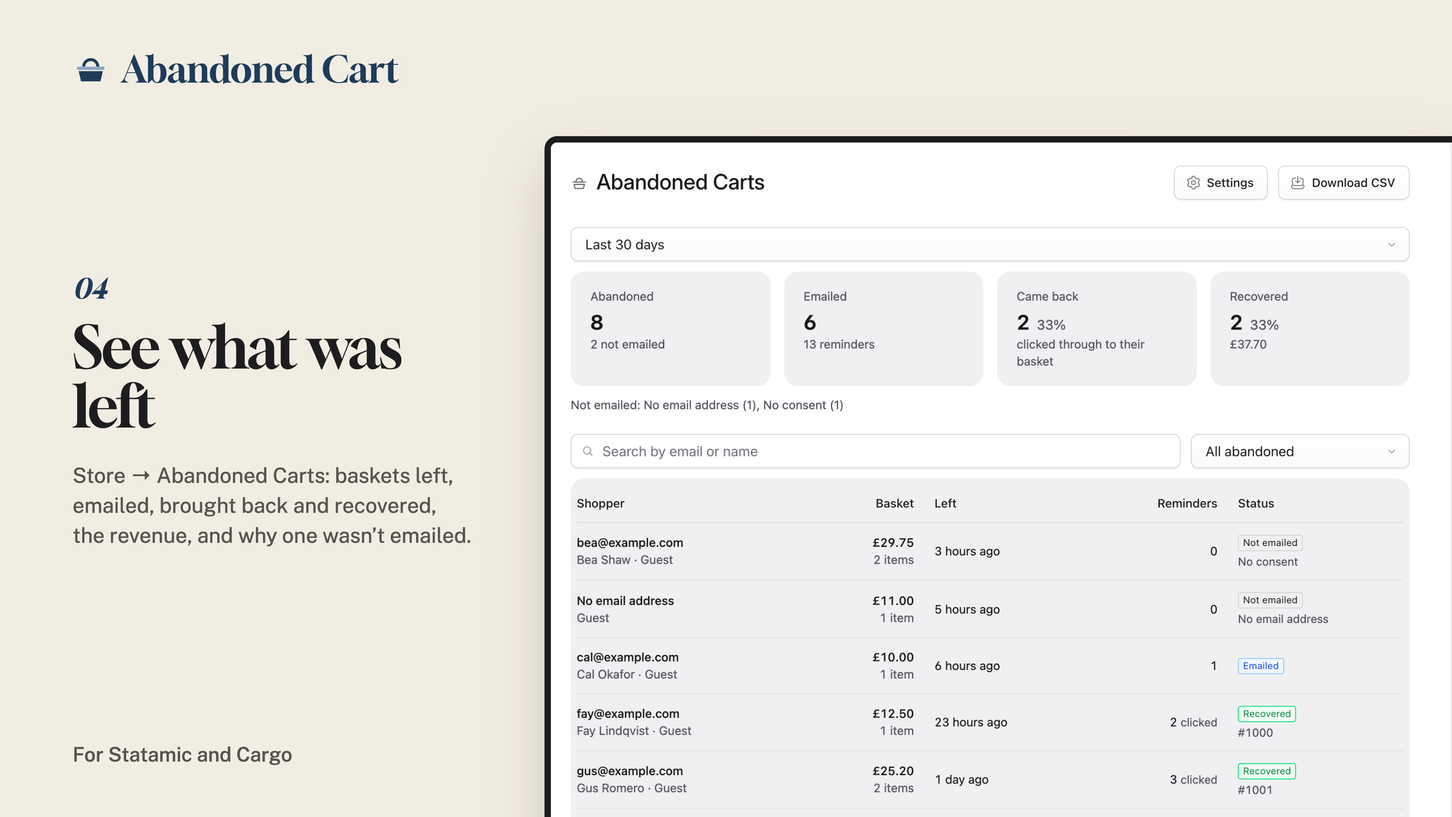
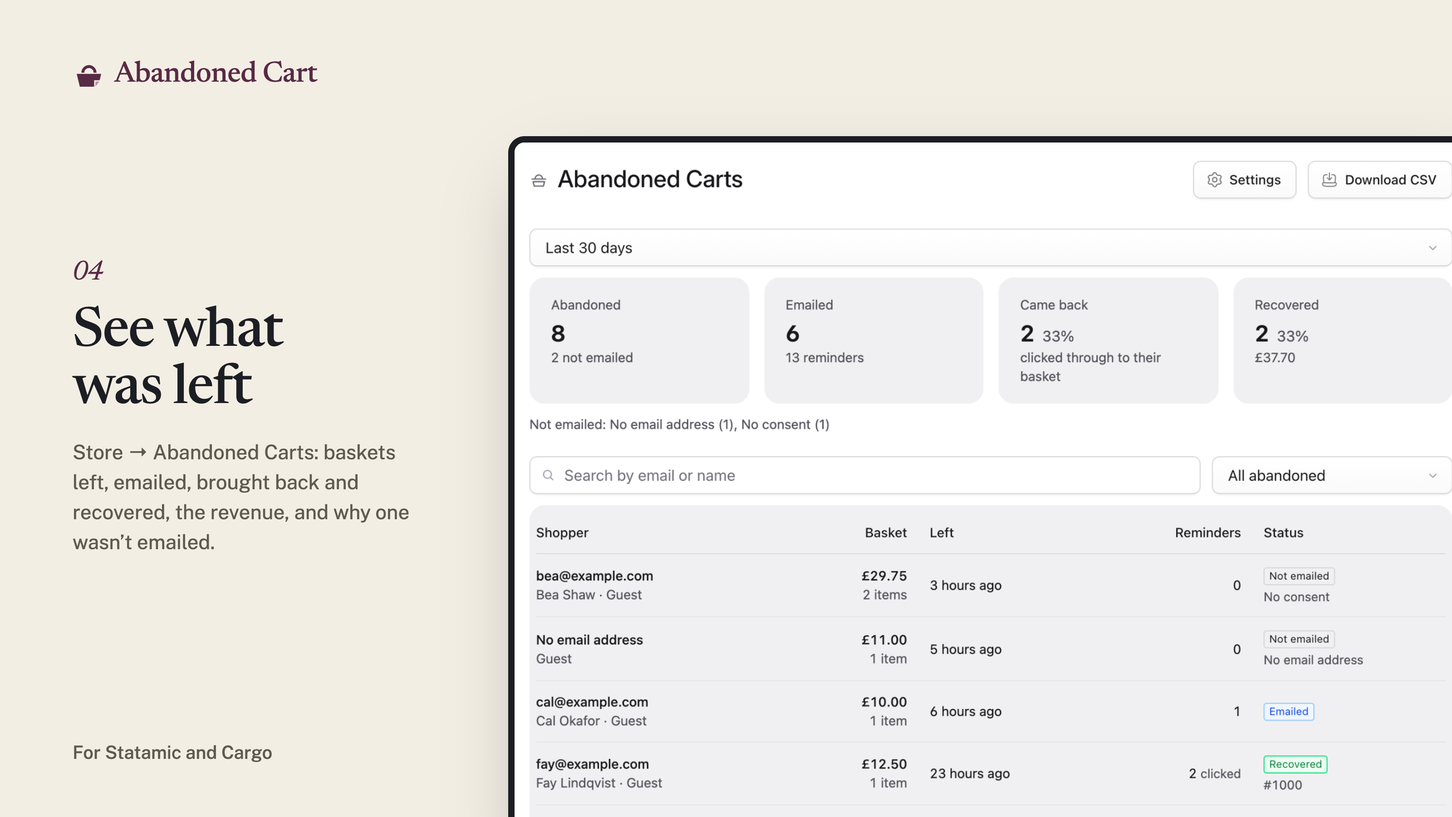
Marketplace images: cover, six screens, everything
From the 1994 marketplace kit: the family raspberry (#582A45) and the
folded-corner basket replace the blue and the plain basket.

- docs/marketplace/: cover-1600x900, 01-consent, 02-reminders,
  03-basket-back, 04-whats-left, 05-every-click, 06-everything (each
  with -2x), addon-icon (svg, png, 2x) and description.md
- resources/brand/: mark-colour.svg, mark-reversed.svg, nav-icon.svg,
  with the kit's embedded C2PA metadata stripped, as in Back in Stock
- src/ServiceProvider.php: the Control Panel nav icon from the new
  nav-icon.svg; resources/dist rebuilt for the page headers and widget

diff --git a/resources/dist/build/assets/cp-YY2lgifK.js b/resources/dist/build/assets/cp-YY2lgifK.js
@@ -1,0 +1,1 @@
+var{Form:e,Head:t,Link:n,router:r,toggleArchitecturalBackground:i,useArchitecturalBackground:a,useForm:o,usePage:s,usePoll:c}=__STATAMIC__.inertia,{Alert:l,AuthCard:u,AutocompleteEditor:d,Avatar:f,Badge:p,Button:m,ButtonGroup:h,Calendar:g,Card:_,CardList:v,CardListItem:y,CardPanel:ee,CharacterCounter:te,Checkbox:ne,CheckboxGroup:re,CodeEditor:ie,Combobox:ae,CommandPaletteItem:oe,ConfirmationModal:se,ContentDirection:ce,useContentDirection:le,useUiDirection:ue,Context:de,ContextFooter:fe,ContextHeader:pe,ContextItem:me,ContextLabel:he,ContextMenu:ge,ContextSeparator:_e,CreateForm:ve,DatePicker:ye,DateRangePicker:be,Description:xe,DocsCallout:Se,DragHandle:Ce,Dropdown:we,DropdownItem:Te,DropdownLabel:Ee,DropdownMenu:De,DropdownSeparator:Oe,DropdownFooter:ke,DropdownHeader:Ae,Editable:je,ErrorMessage:Me,EmptyStateItem:Ne,EmptyStateMenu:Pe,Field:Fe,Header:b,Heading:Ie,HoverCard:Le,Icon:Re,Input:ze,InputGroup:Be,InputGroupAppend:Ve,InputGroupPrepend:He,Label:Ue,Listing:We,ListingCustomizeColumns:Ge,ListingFilters:Ke,ListingHeaderCell:qe,ListingPagination:Je,ListingPresets:Ye,ListingPresetTrigger:Xe,ListingRowActions:Ze,ListingSearch:Qe,ListingTable:$e,ListingTableBody:et,ListingTableHead:tt,ListingToggleAll:nt,LivePreview:rt,LivePreviewPopout:it,MiddleEllipsis:at,Modal:ot,ModalClose:st,ModalTitle:ct,Pagination:lt,Panel:x,PanelFooter:ut,PanelHeader:dt,Popover:ft,PublishComponents:pt,PublishContainer:mt,publishContextKey:ht,injectPublishContext:gt,PublishField:_t,PublishFields:vt,PublishFieldsProvider:yt,PublishForm:bt,PublishLocalizations:xt,PublishSections:St,PublishTabs:Ct,Radio:wt,RadioGroup:Tt,Select:S,Separator:Et,Slider:Dt,Skeleton:Ot,SplitterGroup:kt,SplitterPanel:At,SplitterResizeHandle:jt,StatusIndicator:Mt,Subheading:Nt,Switch:Pt,TabContent:Ft,Stack:It,StackClose:Lt,StackHeader:Rt,StackFooter:zt,StackContent:Bt,Table:C,TableCell:w,TableColumn:T,TableColumns:E,TableRow:D,TableRows:O,TabList:Vt,TabProvider:Ht,Tabs:Ut,TabTrigger:Wt,Text:Gt,Textarea:Kt,TimePicker:qt,TimezoneHoverCard:Jt,Timezones:Yt,ToggleGroup:Xt,ToggleItem:Zt,Widget:Qt,registerIconSet:$t,registerIconSetFromStrings:en}=__STATAMIC__.ui,{BaseTransition:tn,BaseTransitionPropsValidators:nn,Comment:rn,DeprecationTypes:an,EffectScope:on,ErrorCodes:sn,ErrorTypeStrings:cn,Fragment:k,KeepAlive:ln,ReactiveEffect:un,Static:dn,Suspense:fn,Teleport:pn,Text:mn,TrackOpTypes:hn,Transition:gn,TransitionGroup:_n,TriggerOpTypes:vn,VueElement:yn,__esModule:bn,assertNumber:xn,callWithAsyncErrorHandling:Sn,callWithErrorHandling:Cn,camelize:wn,capitalize:Tn,cloneVNode:En,compatUtils:Dn,compile:On,computed:kn,createApp:An,createBlock:A,createCommentVNode:j,createElementBlock:M,createElementVNode:N,createHydrationRenderer:jn,createPropsRestProxy:Mn,createRenderer:Nn,createSSRApp:Pn,createSlots:Fn,createStaticVNode:In,createTextVNode:P,createVNode:F,customRef:Ln,defineAsyncComponent:Rn,defineComponent:zn,defineCustomElement:Bn,defineEmits:Vn,defineExpose:Hn,defineModel:Un,defineOptions:Wn,defineProps:Gn,defineSSRCustomElement:Kn,defineSlots:qn,devtools:Jn,effect:Yn,effectScope:Xn,getCurrentInstance:Zn,getCurrentScope:Qn,getCurrentWatcher:$n,getTransitionRawChildren:er,guardReactiveProps:tr,h:nr,handleError:rr,hasInjectionContext:ir,hydrate:ar,hydrateOnIdle:or,hydrateOnInteraction:sr,hydrateOnMediaQuery:cr,hydrateOnVisible:lr,initCustomFormatter:ur,initDirectivesForSSR:dr,inject:fr,isMemoSame:pr,isProxy:mr,isReactive:hr,isReadonly:gr,isRef:_r,isRuntimeOnly:vr,isShallow:yr,isVNode:br,markRaw:xr,mergeDefaults:Sr,mergeModels:Cr,mergeProps:wr,nextTick:Tr,nodeOps:Er,normalizeClass:Dr,normalizeProps:Or,normalizeStyle:kr,onActivated:Ar,onBeforeMount:jr,onBeforeUnmount:Mr,onBeforeUpdate:Nr,onDeactivated:Pr,onErrorCaptured:Fr,onMounted:Ir,onRenderTracked:Lr,onRenderTriggered:Rr,onScopeDispose:zr,onServerPrefetch:Br,onUnmounted:Vr,onUpdated:Hr,onWatcherCleanup:Ur,openBlock:I,patchProp:Wr,popScopeId:Gr,provide:Kr,proxyRefs:qr,pushScopeId:Jr,queuePostFlushCb:Yr,reactive:Xr,readonly:Zr,ref:Qr,registerRuntimeCompiler:$r,render:ei,renderList:L,renderSlot:ti,resolveComponent:R,resolveDirective:ni,resolveDynamicComponent:ri,resolveFilter:ii,resolveTransitionHooks:ai,setBlockTracking:oi,setDevtoolsHook:si,setTransitionHooks:ci,shallowReactive:li,shallowReadonly:ui,shallowRef:di,ssrContextKey:fi,ssrUtils:pi,stop:mi,toDisplayString:z,toHandlerKey:hi,toHandlers:gi,toRaw:_i,toRef:vi,toRefs:yi,toValue:bi,transformVNodeArgs:xi,triggerRef:Si,unref:Ci,useAttrs:wi,useCssModule:Ti,useCssVars:Ei,useHost:Di,useId:Oi,useModel:ki,useSSRContext:Ai,useShadowRoot:ji,useSlots:Mi,useTemplateRef:Ni,useTransitionState:Pi,vModelCheckbox:Fi,vModelDynamic:Ii,vModelRadio:Li,vModelSelect:Ri,vModelText:zi,vShow:Bi,version:Vi,warn:Hi,watch:Ui,watchEffect:Wi,watchPostEffect:Gi,watchSyncEffect:Ki,withAsyncContext:qi,withCtx:B,withDefaults:Ji,withDirectives:Yi,withKeys:Xi,withMemo:Zi,withModifiers:Qi,withScopeId:$i}=window.Vue,V=(e,t)=>{let n=e.__vccOpts||e;for(let[e,r]of t)n[e]=r;return n},H={waiting:`amber`,emailed:`blue`,not_emailed:`gray`,recovered:`green`,ordered:`emerald`,cancelled:`red`,deleted:`gray`},U={components:{Badge:p},props:{status:{type:String,required:!0},label:{type:String,required:!0}},computed:{colour(){return H[this.status]??`default`}}};function W(e,t,n,r,i,a){let o=R(`Badge`);return I(),A(o,{text:n.label,color:a.colour,size:`sm`},null,8,[`text`,`color`])}var G=V(U,[[`render`,W]]),K={components:{Panel:x},props:{stats:{type:Object,required:!0}}},q={class:`grid gap-4 sm:grid-cols-2 lg:grid-cols-4`},J={class:`px-4 py-3`},Y={class:`text-sm text-gray-600 dark:text-gray-400!`},X={class:`mt-1 text-2xl font-semibold tabular-nums`},Z={class:`text-sm text-gray-600 dark:text-gray-400!`},ea={class:`px-4 py-3`},ta={class:`text-sm text-gray-600 dark:text-gray-400!`},na={class:`mt-1 text-2xl font-semibold tabular-nums`},ra={class:`text-sm text-gray-600 dark:text-gray-400!`},ia={class:`px-4 py-3`},aa={class:`text-sm text-gray-600 dark:text-gray-400!`},oa={class:`mt-1 text-2xl font-semibold tabular-nums`},sa={key:0,class:`ml-2 text-base font-normal text-gray-600 dark:text-gray-400!`},ca={class:`text-sm text-gray-600 dark:text-gray-400!`},la={class:`px-4 py-3`},ua={class:`text-sm text-gray-600 dark:text-gray-400!`},da={class:`mt-1 text-2xl font-semibold tabular-nums`},fa={key:0,class:`ml-2 text-base font-normal text-gray-600 dark:text-gray-400!`},pa={class:`text-sm text-gray-600 dark:text-gray-400!`};function ma(e,t,n,r,i,a){let o=R(`Panel`);return I(),M(`div`,q,[F(o,{class:`mb-0!`},{default:B(()=>[N(`div`,J,[N(`div`,Y,z(e.__(`Abandoned`)),1),N(`div`,X,z(n.stats.abandoned),1),N(`div`,Z,z(e.__(`:count not emailed`,{count:n.stats.not_emailed})),1)])]),_:1}),F(o,{class:`mb-0!`},{default:B(()=>[N(`div`,ea,[N(`div`,ta,z(e.__(`Emailed`)),1),N(`div`,na,z(n.stats.emailed),1),N(`div`,ra,z(e.__(n.stats.reminders===1?`1 reminder`:`:count reminders`,{count:n.stats.reminders})),1)])]),_:1}),F(o,{class:`mb-0!`},{default:B(()=>[N(`div`,ia,[N(`div`,aa,z(e.__(`Came back`)),1),N(`div`,oa,[P(z(n.stats.clicked),1),n.stats.click_rate?(I(),M(`span`,sa,z(n.stats.click_rate),1)):j(``,!0)]),N(`div`,ca,z(e.__(`clicked through to their basket`)),1)])]),_:1}),F(o,{class:`mb-0!`},{default:B(()=>[N(`div`,la,[N(`div`,ua,z(e.__(`Recovered`)),1),N(`div`,da,[P(z(n.stats.recovered),1),n.stats.recovery_rate?(I(),M(`span`,fa,z(n.stats.recovery_rate),1)):j(``,!0)]),N(`div`,pa,z(n.stats.revenue.length?n.stats.revenue.join(` · `):e.__(`no orders yet`)),1)])]),_:1})])}var ha=V(K,[[`render`,ma]]),Q=`<svg xmlns="http://www.w3.org/2000/svg" fill="none" viewBox="0 0 14 14"><path d="M4.25 6.25A2.75 2.75 0 0 1 9.75 6.25" stroke="currentColor" stroke-width="1" stroke-linecap="round"></path><path d="M2 6.75H12L11.4 9.5H9.25V12.25H3.2Z" stroke="currentColor" stroke-width="1" stroke-linejoin="round"></path><path d="M9.25 12.25L11.4 9.5" stroke="currentColor" stroke-width="1" stroke-linecap="round"></path></svg>`,ga={components:{Button:m,Head:t,Header:b,Input:ze,Link:n,Panel:x,Select:S,Stats:ha,StatusBadge:G,Table:C,TableCell:w,TableColumn:T,TableColumns:E,TableRow:D,TableRows:O},props:{search:{type:String,default:null},show:{type:String,default:`all`},period:{type:String,default:`30`},baskets:{type:Array,required:!0},pagination:{type:Object,required:!0},stats:{type:Object,required:!0},warning:{type:String,default:null},testMode:{type:Boolean,default:!1},multisite:{type:Boolean,default:!1},canExport:{type:Boolean,default:!1},urls:{type:Object,required:!0}},data(){return{query:this.search??``,filter:this.show,days:this.period,timer:null}},computed:{icon:()=>Q,showOptions(){return[{value:`all`,label:__(`All abandoned`)},{value:`waiting`,label:__(`Waiting for a reminder`)},{value:`emailed`,label:__(`Emailed`)},{value:`not_emailed`,label:__(`Not emailed`)},{value:`recovered`,label:__(`Recovered`)},{value:`ordered`,label:__(`Ordered without a reminder`)}]},periodOptions(){return[{value:`7`,label:__(`Last 7 days`)},{value:`30`,label:__(`Last 30 days`)},{value:`90`,label:__(`Last 90 days`)},{value:`all`,label:__(`All time`)}]},filtered(){return!!this.search||this.show!==`all`},exportUrl(){let e=new URLSearchParams(this.params()).toString();return this.urls.export+(e?`?${e}`:``)}},watch:{query(){clearTimeout(this.timer),this.timer=setTimeout(()=>this.reload(),300)},filter(){this.reload()},days(){this.reload()}},methods:{params(e=1){let t={};return this.query&&(t.search=this.query),this.filter!==`all`&&(t.show=this.filter),this.days!==`30`&&(t.period=this.days),e>1&&(t.page=e),t},reload(){r.get(this.urls.index,this.params(),{preserveState:!0,replace:!0})},pageUrl(e){let t=new URLSearchParams(this.params(e)).toString();return this.urls.index+(t?`?${t}`:``)}}},_a={class:`mx-auto max-w-6xl`},va={key:0,class:`mb-4 rounded-lg border border-amber-300 bg-amber-50 px-4 py-3 text-sm text-amber-900 dark:border-amber-700! dark:bg-amber-950! dark:text-amber-200!`,role:`status`},ya={key:1,class:`mb-4 rounded-lg border border-blue-300 bg-blue-50 px-4 py-3 text-sm text-blue-900 dark:border-blue-700! dark:bg-blue-950! dark:text-blue-200!`,role:`status`},ba={class:`mb-3 flex justify-end`},xa={class:`w-full sm:w-48`},Sa={key:2,class:`-mt-3 mb-6 text-sm text-gray-600 dark:text-gray-400!`},Ca={key:0},wa={class:`mb-3 flex flex-col gap-3 sm:flex-row`},Ta={class:`grow`},Ea={class:`sm:w-64`},Da={key:0,class:`overflow-x-auto`},Oa={class:`text-sm text-gray-600 dark:text-gray-400!`},ka={key:0},Aa={key:1},ja={class:`font-medium`},Ma={class:`text-sm text-gray-600 dark:text-gray-400!`},Na=[`title`],Pa={key:0,class:`ml-1 text-xs text-gray-600 dark:text-gray-400!`},Fa={key:0,class:`mt-1 text-xs text-gray-600 dark:text-gray-400!`},Ia={key:1,class:`mt-1 text-xs text-gray-600 dark:text-gray-400!`},La={key:1,class:`px-6 py-10 text-center`},Ra={key:0,class:`text-gray-600 dark:text-gray-400!`},za={class:`font-medium`},Ba={class:`mt-1 text-sm text-gray-600 dark:text-gray-400!`},Va=[`aria-label`],Ha={key:1},Ua={class:`text-gray-600 dark:text-gray-400!`},Wa={key:3};function Ga(e,t,n,r,i,a){let o=R(`Head`),s=R(`Button`),c=R(`Header`),l=R(`Select`),u=R(`Stats`),d=R(`Input`),f=R(`TableColumn`),p=R(`TableColumns`),m=R(`Link`),h=R(`TableCell`),g=R(`StatusBadge`),_=R(`TableRow`),v=R(`TableRows`),y=R(`Table`),ee=R(`Panel`);return I(),M(k,null,[F(o,{title:e.__(`Abandoned Carts`)},null,8,[`title`]),N(`div`,_a,[F(c,{title:e.__(`Abandoned Carts`),icon:a.icon},{default:B(()=>[n.urls.settings?(I(),A(s,{key:0,href:n.urls.settings,text:e.__(`Settings`),icon:`cog`},null,8,[`href`,`text`])):j(``,!0),n.canExport?(I(),A(s,{key:1,href:a.exportUrl,text:e.__(`Download CSV`),icon:`download`},null,8,[`href`,`text`])):j(``,!0)]),_:1},8,[`title`,`icon`]),n.warning?(I(),M(`div`,va,z(n.warning),1)):j(``,!0),n.testMode?(I(),M(`div`,ya,z(e.__(`Test mode is on: only the test addresses in the settings are emailed.`)),1)):j(``,!0),N(`div`,ba,[N(`div`,xa,[F(l,{modelValue:i.days,"onUpdate:modelValue":t[0]||=e=>i.days=e,options:a.periodOptions,"option-label":`label`,"option-value":`value`,"aria-label":e.__(`Period`)},null,8,[`modelValue`,`options`,`aria-label`])])]),F(u,{stats:n.stats,class:`mb-6`},null,8,[`stats`]),n.stats.reasons.length?(I(),M(`p`,Sa,[P(z(e.__(`Not emailed:`))+` `,1),(I(!0),M(k,null,L(n.stats.reasons,(e,t)=>(I(),M(`span`,{key:e.reason},[P(z(e.label)+` (`+z(e.total)+`)`,1),t<n.stats.reasons.length-1?(I(),M(`span`,Ca,`, `)):j(``,!0)]))),128))])):j(``,!0),N(`div`,wa,[N(`div`,Ta,[F(d,{modelValue:i.query,"onUpdate:modelValue":t[1]||=e=>i.query=e,icon:`magnifying-glass`,placeholder:e.__(`Search by email or name`),clearable:``,"aria-label":e.__(`Search`)},null,8,[`modelValue`,`placeholder`,`aria-label`])]),N(`div`,Ea,[F(l,{modelValue:i.filter,"onUpdate:modelValue":t[2]||=e=>i.filter=e,options:a.showOptions,"option-label":`label`,"option-value":`value`,"aria-label":e.__(`Show`)},null,8,[`modelValue`,`options`,`aria-label`])])]),F(ee,null,{default:B(()=>[n.baskets.length?(I(),M(`div`,Da,[F(y,null,{default:B(()=>[F(p,null,{default:B(()=>[F(f,null,{default:B(()=>[P(z(e.__(`Shopper`)),1)]),_:1}),F(f,{class:`text-right`},{default:B(()=>[P(z(e.__(`Basket`)),1)]),_:1}),F(f,null,{default:B(()=>[P(z(e.__(`Left`)),1)]),_:1}),F(f,{class:`text-right`},{default:B(()=>[P(z(e.__(`Reminders`)),1)]),_:1}),F(f,null,{default:B(()=>[P(z(e.__(`Status`)),1)]),_:1})]),_:1}),F(v,null,{default:B(()=>[(I(!0),M(k,null,L(n.baskets,t=>(I(),A(_,{key:t.id},{default:B(()=>[F(h,null,{default:B(()=>[F(m,{href:t.url,class:`font-medium hover:underline!`},{default:B(()=>[P(z(t.email||e.__(`No email address`)),1)]),_:2},1032,[`href`]),N(`div`,Oa,[t.name?(I(),M(`span`,ka,z(t.name)+` · `,1)):j(``,!0),P(z(t.guest?e.__(`Guest`):e.__(`Customer`)),1),n.multisite?(I(),M(`span`,Aa,` · `+z(t.site),1)):j(``,!0)])]),_:2},1024),F(h,{class:`text-right tabular-nums`},{default:B(()=>[N(`div`,ja,z(t.total),1),N(`div`,Ma,z(e.__(t.items_count===1?`1 item`:`:count items`,{count:t.items_count})),1)]),_:2},1024),F(h,null,{default:B(()=>[N(`span`,{title:t.updated_at},z(t.updated_ago),9,Na)]),_:2},1024),F(h,{class:`text-right tabular-nums`},{default:B(()=>[P(z(t.reminders_sent),1),t.clicked?(I(),M(`span`,Pa,z(e.__(`clicked`)),1)):j(``,!0)]),_:2},1024),F(h,null,{default:B(()=>[F(g,{status:t.status,label:t.status_label},null,8,[`status`,`label`]),t.reason?(I(),M(`div`,Fa,z(t.reason),1)):t.order?(I(),M(`div`,Ia,z(t.order),1)):j(``,!0)]),_:2},1024)]),_:2},1024))),128))]),_:1})]),_:1})])):(I(),M(`div`,La,[a.filtered?(I(),M(`p`,Ra,z(e.__(`Nothing matches.`)),1)):(I(),M(k,{key:1},[N(`p`,za,z(e.__(`No abandoned baskets yet`)),1),N(`p`,Ba,z(e.__(`Baskets left without an order show here, with the reminders sent and what came back.`)),1)],64))]))]),_:1}),n.pagination.last_page>1?(I(),M(`nav`,{key:3,class:`mt-4 flex items-center justify-between text-sm`,"aria-label":e.__(`Pages`)},[n.pagination.page>1?(I(),A(m,{key:0,href:a.pageUrl(n.pagination.page-1),class:`hover:underline!`},{default:B(()=>[P(`← `+z(e.__(`Previous`)),1)]),_:1},8,[`href`])):(I(),M(`span`,Ha)),N(`span`,Ua,z(e.__(`:page of :last`,{page:n.pagination.page,last:n.pagination.last_page})),1),n.pagination.page<n.pagination.last_page?(I(),A(m,{key:2,href:a.pageUrl(n.pagination.page+1),class:`hover:underline!`},{default:B(()=>[P(z(e.__(`Next`))+` →`,1)]),_:1},8,[`href`])):(I(),M(`span`,Wa))],8,Va)):j(``,!0)])],64)}var Ka=V(ga,[[`render`,Ga]]),qa={components:{Button:m,Head:t,Header:b,Link:n,Panel:x,Select:S,StatusBadge:G,Table:C,TableCell:w,TableColumn:T,TableColumns:E,TableRow:D,TableRows:O},props:{basket:{type:Object,required:!0},reminders:{type:Array,required:!0},steps:{type:Array,required:!0},canManage:{type:Boolean,default:!1},urls:{type:Object,required:!0}},data(){return{step:this.steps[0]?.value??1}},computed:{icon:()=>Q,title(){return this.basket.email||__(`Basket`)},stoppable(){return this.canManage&&[`waiting`,`emailed`].includes(this.basket.status)&&!this.basket.reason}},methods:{sendTest(){r.post(this.urls.test,{step:this.step},{preserveScroll:!0})},stop(){confirm(__(`Send no more reminders for this basket?`))&&r.post(this.urls.stop,{},{preserveScroll:!0})}}},Ja={class:`mx-auto max-w-5xl`},Ya={class:`mb-2 text-sm`},Xa={class:`grid gap-6 lg:grid-cols-3`},Za={class:`lg:col-span-2`},Qa={class:`overflow-x-auto`},$a={class:`font-medium`},eo={key:0,class:`text-sm text-gray-600 dark:text-gray-400!`},to={key:0,class:`overflow-x-auto`},no={key:0,class:`ml-1 text-xs text-gray-600 dark:text-gray-400!`},ro=[`title`],io={key:0,class:`font-mono text-sm`},ao={key:1,class:`text-gray-500`},oo={key:0,class:`text-xs text-gray-600 dark:text-gray-400!`},so={key:1,class:`px-4 py-4 text-sm text-gray-600 dark:text-gray-400!`},co={class:`space-y-3 px-4 py-3 text-sm`},lo={class:`text-gray-600 dark:text-gray-400!`},uo={class:`mt-1`},fo={key:0,class:`mt-1`},po={key:0},mo={class:`text-gray-600 dark:text-gray-400!`},ho=[`href`],go={key:1},_o={key:2},vo={class:`text-gray-600 dark:text-gray-400!`},yo={class:`text-gray-600 dark:text-gray-400!`},bo={key:0},xo=[`href`],So={key:2,class:`text-gray-600 dark:text-gray-400!`},Co={class:`text-gray-600 dark:text-gray-400!`},wo={key:0,class:`text-gray-600 dark:text-gray-400!`},To={key:1,class:`mt-1 border-l-2 border-gray-300 pl-2 text-gray-700 dark:border-gray-600! dark:text-gray-300!`},Eo={class:`text-gray-600 dark:text-gray-400!`},Do={class:`text-gray-600 dark:text-gray-400!`},Oo={class:`text-gray-600 dark:text-gray-400!`},ko={class:`space-y-3 px-4 py-3 text-sm`},Ao={class:`text-gray-600 dark:text-gray-400!`};function jo(e,t,n,r,i,a){let o=R(`Head`),s=R(`Link`),c=R(`Button`),l=R(`Header`),u=R(`TableColumn`),d=R(`TableColumns`),f=R(`TableCell`),p=R(`TableRow`),m=R(`TableRows`),h=R(`Table`),g=R(`Panel`),_=R(`StatusBadge`),v=R(`Select`);return I(),M(k,null,[F(o,{title:a.title},null,8,[`title`]),N(`div`,Ja,[N(`div`,Ya,[F(s,{href:n.urls.index,class:`hover:underline!`},{default:B(()=>[P(`← `+z(e.__(`Abandoned Carts`)),1)]),_:1},8,[`href`])]),F(l,{title:a.title,icon:a.icon},{default:B(()=>[a.stoppable?(I(),A(c,{key:0,text:e.__(`Stop reminders`),onClick:a.stop},null,8,[`text`,`onClick`])):j(``,!0)]),_:1},8,[`title`,`icon`]),N(`div`,Xa,[N(`div`,Za,[F(g,{heading:e.__(`Basket`)},{default:B(()=>[N(`div`,Qa,[F(h,null,{default:B(()=>[F(d,null,{default:B(()=>[F(u,null,{default:B(()=>[P(z(e.__(`Product`)),1)]),_:1}),F(u,{class:`text-right`},{default:B(()=>[P(z(e.__(`Quantity`)),1)]),_:1}),F(u,{class:`text-right`},{default:B(()=>[P(z(e.__(`Total`)),1)]),_:1})]),_:1}),F(m,null,{default:B(()=>[(I(!0),M(k,null,L(n.basket.items,(e,t)=>(I(),A(p,{key:t},{default:B(()=>[F(f,null,{default:B(()=>[N(`div`,$a,z(e.title),1),e.variant?(I(),M(`div`,eo,z(e.variant),1)):j(``,!0)]),_:2},1024),F(f,{class:`text-right tabular-nums`},{default:B(()=>[P(z(e.quantity),1)]),_:2},1024),F(f,{class:`text-right tabular-nums`},{default:B(()=>[P(z(e.total),1)]),_:2},1024)]),_:2},1024))),128)),F(p,null,{default:B(()=>[F(f,{class:`font-semibold`},{default:B(()=>[P(z(e.__(`Total`)),1)]),_:1}),F(f),F(f,{class:`text-right font-semibold tabular-nums`},{default:B(()=>[P(z(n.basket.total),1)]),_:1})]),_:1})]),_:1})]),_:1})])]),_:1},8,[`heading`]),F(g,{heading:e.__(`Reminders`)},{default:B(()=>[n.reminders.length?(I(),M(`div`,to,[F(h,null,{default:B(()=>[F(d,null,{default:B(()=>[F(u,null,{default:B(()=>[P(z(e.__(`Reminder`)),1)]),_:1}),F(u,null,{default:B(()=>[P(z(e.__(`Sent`)),1)]),_:1}),F(u,null,{default:B(()=>[P(z(e.__(`Code`)),1)]),_:1}),F(u,null,{default:B(()=>[P(z(e.__(`Opened the link`)),1)]),_:1}),F(u,null,{default:B(()=>[P(z(e.__(`Brought the basket back`)),1)]),_:1})]),_:1}),F(m,null,{default:B(()=>[(I(!0),M(k,null,L(n.reminders,t=>(I(),A(p,{key:t.id},{default:B(()=>[F(f,null,{default:B(()=>[P(z(e.__(`Reminder :number`,{number:t.step}))+` `,1),t.test?(I(),M(`span`,no,z(e.__(`test`)),1)):j(``,!0)]),_:2},1024),F(f,null,{default:B(()=>[N(`span`,{title:t.sent_at},z(t.sent_ago),9,ro)]),_:2},1024),F(f,null,{default:B(()=>[t.code?(I(),M(`span`,io,z(t.code),1)):(I(),M(`span`,ao,`—`))]),_:2},1024),F(f,null,{default:B(()=>[P(z(t.viewed_at||`—`),1)]),_:2},1024),F(f,null,{default:B(()=>[P(z(t.clicked_at||`—`)+` `,1),t.clicks>1?(I(),M(`span`,oo,`(`+z(t.clicks)+`×)`,1)):j(``,!0)]),_:2},1024)]),_:2},1024))),128))]),_:1})]),_:1})])):(I(),M(`p`,so,z(e.__(`No reminders sent.`)),1))]),_:1},8,[`heading`])]),N(`div`,null,[F(g,{heading:e.__(`Details`)},{default:B(()=>[N(`dl`,co,[N(`div`,null,[N(`dt`,lo,z(e.__(`Status`)),1),N(`dd`,uo,[F(_,{status:n.basket.status,label:n.basket.status_label},null,8,[`status`,`label`]),n.basket.reason?(I(),M(`div`,fo,z(n.basket.reason),1)):j(``,!0)])]),n.basket.order?(I(),M(`div`,po,[N(`dt`,mo,z(e.__(`Order`)),1),N(`dd`,null,[n.basket.order_url?(I(),M(`a`,{key:0,href:n.basket.order_url,class:`hover:underline!`},z(n.basket.order),9,ho)):(I(),M(`span`,go,z(n.basket.order),1)),n.basket.order_total?(I(),M(`span`,_o,` · `+z(n.basket.order_total),1)):j(``,!0),N(`div`,vo,z(n.basket.ordered_at),1)])])):j(``,!0),N(`div`,null,[N(`dt`,yo,z(e.__(`Shopper`)),1),N(`dd`,null,[n.basket.anonymised?(I(),M(k,{key:0},[P(z(e.__(`Removed after the retention period`)),1)],64)):(I(),M(k,{key:1},[n.basket.name?(I(),M(`div`,bo,z(n.basket.name),1)):j(``,!0),N(`div`,null,z(n.basket.email||e.__(`No email address`)),1),n.basket.customer?(I(),M(`a`,{key:1,href:n.basket.customer,class:`hover:underline!`},z(e.__(`Customer account`)),9,xo)):(I(),M(`div`,So,z(e.__(`Guest`)),1))],64))])]),N(`div`,null,[N(`dt`,Co,z(e.__(`Consent`)),1),N(`dd`,null,[P(z(n.basket.consent_label)+` `,1),n.basket.consent_at?(I(),M(`div`,wo,z(n.basket.consent_at),1)):j(``,!0),n.basket.consent_text?(I(),M(`blockquote`,To,z(n.basket.consent_text),1)):j(``,!0)])]),N(`div`,null,[N(`dt`,Eo,z(e.__(`Last changed`)),1),N(`dd`,null,[P(z(n.basket.updated_at)+` `,1),N(`span`,Do,`(`+z(n.basket.updated_ago)+`)`,1)])]),N(`div`,null,[N(`dt`,Oo,z(e.__(`Site`)),1),N(`dd`,null,z(n.basket.site),1)])])]),_:1},8,[`heading`]),n.canManage&&n.basket.items.length?(I(),A(g,{key:0,heading:e.__(`Send yourself a test`)},{default:B(()=>[N(`div`,ko,[N(`p`,Ao,z(e.__(`Emails you a reminder for this basket, as the shopper would get it. Nothing about the basket changes.`)),1),n.steps.length>1?(I(),A(v,{key:0,modelValue:i.step,"onUpdate:modelValue":t[0]||=e=>i.step=e,options:n.steps,"option-label":`label`,"option-value":`value`,"aria-label":e.__(`Reminder`)},null,8,[`modelValue`,`options`,`aria-label`])):j(``,!0),F(c,{text:e.__(`Send test`),variant:`primary`,onClick:a.sendTest},null,8,[`text`,`onClick`])])]),_:1},8,[`heading`])):j(``,!0)])])])],64)}var $=V(qa,[[`render`,jo]]),Mo={components:{Widget:Qt},props:{title:{type:String,required:!0},days:{type:Number,default:30},stats:{type:Object,required:!0},warning:{type:String,default:null},url:{type:String,required:!0}},computed:{icon:()=>Q}},No={class:`px-4 py-3 text-sm`},Po={key:0,class:`mb-3 text-amber-700 dark:text-amber-300!`},Fo={class:`grid grid-cols-2 gap-3`},Io={class:`text-gray-600 dark:text-gray-400!`},Lo={class:`text-xl font-semibold tabular-nums`},Ro={class:`text-gray-600 dark:text-gray-400!`},zo={class:`text-xl font-semibold tabular-nums`},Bo={class:`text-gray-600 dark:text-gray-400!`},Vo={class:`text-xl font-semibold tabular-nums`},Ho={key:0,class:`text-sm font-normal text-gray-600 dark:text-gray-400!`},Uo={class:`text-gray-600 dark:text-gray-400!`},Wo={class:`text-xl font-semibold tabular-nums`},Go={key:0,class:`text-sm font-normal text-gray-600 dark:text-gray-400!`},Ko={class:`mt-3 text-gray-600 dark:text-gray-400!`};function qo(e,t,n,r,i,a){let o=R(`Widget`);return I(),A(o,{title:n.title,icon:a.icon,href:n.url},{default:B(()=>[N(`div`,No,[n.warning?(I(),M(`p`,Po,z(n.warning),1)):j(``,!0),N(`dl`,Fo,[N(`div`,null,[N(`dt`,Io,z(e.__(`Abandoned`)),1),N(`dd`,Lo,z(n.stats.abandoned),1)]),N(`div`,null,[N(`dt`,Ro,z(e.__(`Emailed`)),1),N(`dd`,zo,z(n.stats.emailed),1)]),N(`div`,null,[N(`dt`,Bo,z(e.__(`Came back`)),1),N(`dd`,Vo,[P(z(n.stats.clicked)+` `,1),n.stats.click_rate?(I(),M(`span`,Ho,z(n.stats.click_rate),1)):j(``,!0)])]),N(`div`,null,[N(`dt`,Uo,z(e.__(`Recovered`)),1),N(`dd`,Wo,[P(z(n.stats.recovered)+` `,1),n.stats.recovery_rate?(I(),M(`span`,Go,z(n.stats.recovery_rate),1)):j(``,!0)])])]),N(`p`,Ko,[n.stats.revenue.length?(I(),M(k,{key:0},[P(z(e.__(`Recovered :revenue`,{revenue:n.stats.revenue.join(` · `)}))+` · `,1)],64)):j(``,!0),P(z(e.__(`last :days days`,{days:n.days})),1)])])]),_:1},8,[`title`,`icon`,`href`])}var Jo=V(Mo,[[`render`,qo]]);Statamic.booting(()=>{Statamic.$inertia.register(`abandoned-cart::Index`,Ka),Statamic.$inertia.register(`abandoned-cart::Show`,$),Statamic.$components.register(`abandoned-cart-widget`,Jo)});

diff --git a/src/ServiceProvider.php b/src/ServiceProvider.php
@@ -24,7 +24,7 @@ use Statamic\Statamic;
 class ServiceProvider extends AddonServiceProvider
 {
     /** The Control Panel nav icon (resources/brand/nav-icon.svg). */
-    public const ICON = '<svg xmlns="http://www.w3.org/2000/svg" fill="none" viewBox="0 0 14 14"><path d="M4.25 6.25A2.75 2.75 0 0 1 9.75 6.25" stroke="currentColor" stroke-width="1" stroke-linecap="round" stroke-linejoin="round"></path><path d="M2 6.5H12" stroke="currentColor" stroke-width="1" stroke-linecap="round" stroke-linejoin="round"></path><path d="M2.75 8.5H11.25L10.4 11.75H3.6Z" stroke="currentColor" stroke-width="1" stroke-linecap="round" stroke-linejoin="round"></path></svg>';
+    public const ICON = '<svg xmlns="http://www.w3.org/2000/svg" fill="none" viewBox="0 0 14 14"><path d="M4.25 6.25A2.75 2.75 0 0 1 9.75 6.25" stroke="currentColor" stroke-width="1" stroke-linecap="round"></path><path d="M2 6.75H12L11.4 9.5H9.25V12.25H3.2Z" stroke="currentColor" stroke-width="1" stroke-linejoin="round"></path><path d="M9.25 12.25L11.4 9.5" stroke="currentColor" stroke-width="1" stroke-linecap="round"></path></svg>';
 
     protected $tags = [
         AbandonedCartTags::class,

diff --git a/docs/marketplace/description.md b/docs/marketplace/description.md
@@ -1,40 +1,40 @@
-**Abandoned cart recovery for Cargo. When a shopper leaves items in their basket, they get up to three reminder emails, and the link in each brings their basket back, at today's prices, with a discount code if you choose one. You see what was left, what was sent, and what came back as orders.**
-
-## Consent built in
-
-One tag adds the box to your checkout. Opt-in (a box to tick, which works everywhere) or UK soft opt-in (a box to say no). Each basket keeps the wording the shopper saw, and when.
+**Abandoned cart recovery for [Cargo](https://builtwithcargo.dev). When a shopper leaves items in their basket, they get up to three reminder emails. The link in each brings their basket back, at today's prices, with a discount code if you choose one. You see what was left, what was sent, and what came back as orders.**
 
 ## Up to three reminders
 
-Each a set number of hours after the basket last changed: an hour, a day, three days, or whatever suits you. A basket that changes starts the clock again, and nobody gets the same reminder twice.
+Each a set number of hours after the basket last changed. A basket that changes starts the clock again, and nobody gets the same reminder twice.
+
+## Consent built in
+
+One tag adds the box to your checkout: opt-in (a box to tick), or UK soft opt-in (a box to say no). Each basket keeps the wording the shopper saw, and when.
 
 ## The basket comes back
 
-The link opens the basket as it is now, with a button that makes it the shopper's basket again, on the right site. Prices are checked, anything sold out is taken out, and the code is added. Mail apps' link checkers can't do it for them. A customer account's basket only comes back for that customer, signed in.
+The link opens the basket as it is now, with a button that makes it the shopper's basket again. Prices are checked, anything sold out is taken out, and the code is added.
 
 ## Discount codes, if you want them
 
-One of your Cargo discounts, or a one-off code made for each email: it works once, only for that shopper, and stops when the link expires.
+One of your Cargo discounts, or a one-off code made for each email: it works once, only for that shopper, until the link expires.
 
 ## Only the right baskets
 
-Guests, signed-in customers or both. A smallest basket, a never-email list, and a test mode that emails only you. Send yourself any reminder from the Control Panel.
+Guests, signed-in customers or both. A smallest basket, a never-email list, and a test mode that emails only you.
 
 ## Stops when it should
 
-An order, an empty or deleted basket, an unsubscribe: no more reminders.
+An order, a basket emptied or deleted, an unsubscribe: no more reminders.
 
 ## One-click unsubscribe
 
-In the email, and in the headers mail apps use. No open-tracking pixel.
+In the email and in the headers mail apps use. No open-tracking pixel.
 
 ## Recovery in the Control Panel
 
-**Store → Abandoned Carts**: baskets left, emailed, brought back and recovered, the revenue, and why a basket wasn't emailed. Each basket's reminders, codes and clicks. A dashboard widget and CSV download.
+**Store → Abandoned Carts**: baskets left, emailed, brought back and recovered, the revenue, and why a basket wasn't emailed. A dashboard widget and CSV download.
 
 ## Privacy
 
-Email addresses and anything else that leads back to the shopper are removed after 90 days, and records deleted after a year. Forget an address with one command.
+Email addresses are removed after 90 days and records deleted after a year. Forget an address with one command. No IP addresses kept.
 
 ## Multisite
 
@@ -42,7 +42,7 @@ Emails in the language of the site the basket was on, and the basket brought bac
 
 ## Yours to change
 
-Wording, logo and colour in the Control Panel. Publish the emails and pages to change anything else. Events and a PHP API.
+Wording, logo and colour in the Control Panel. Publish the emails to change anything else. Events and a PHP API.
 
 ## Requirements
 
